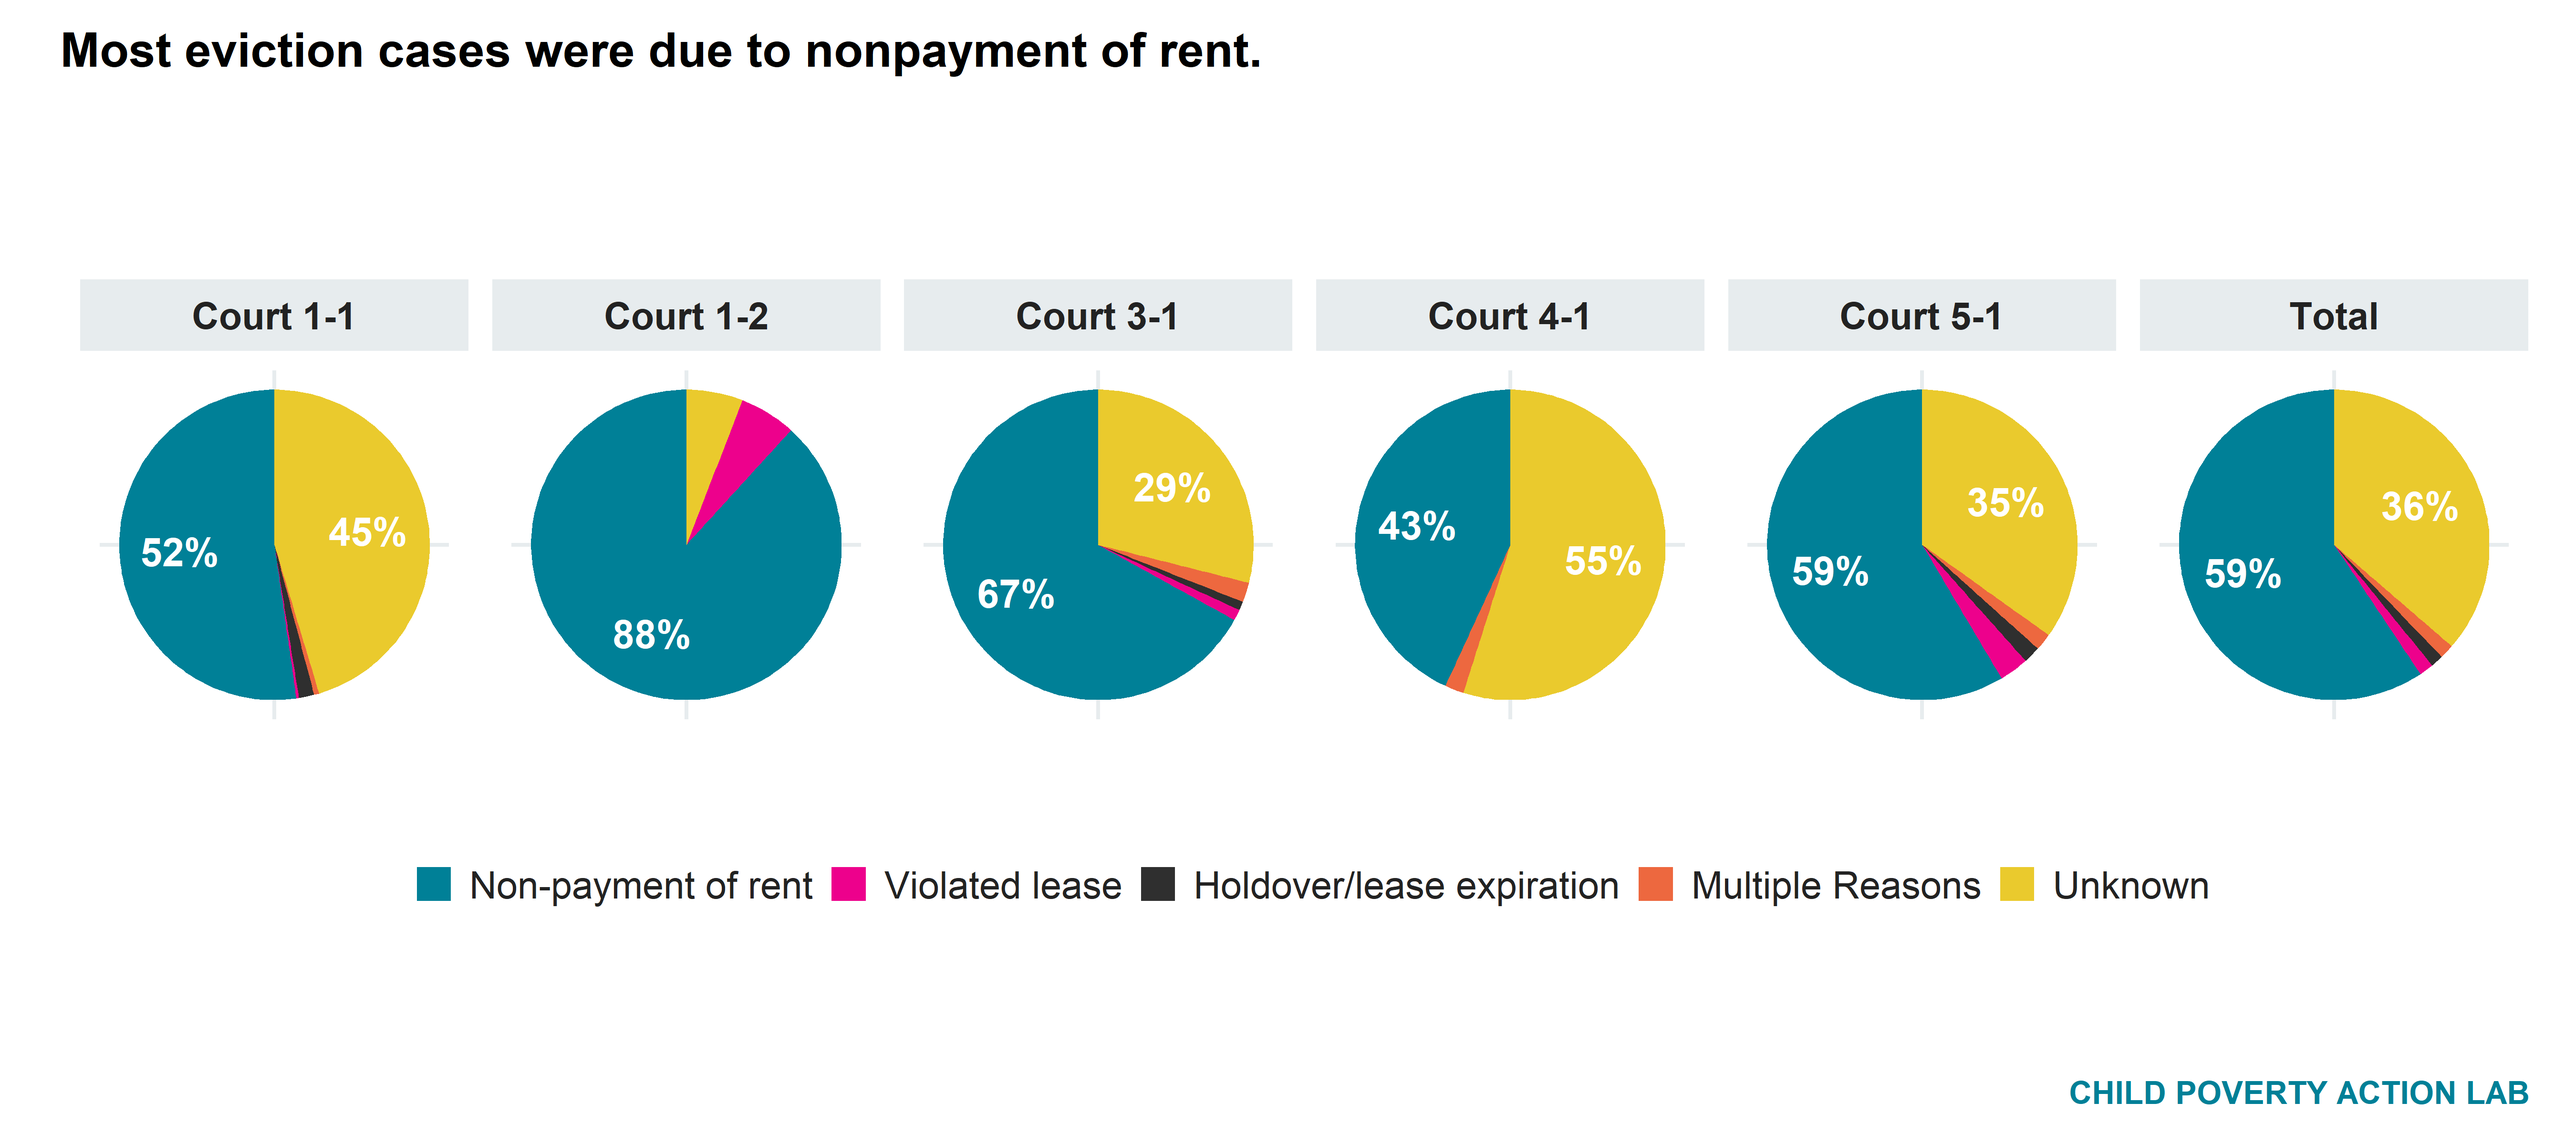
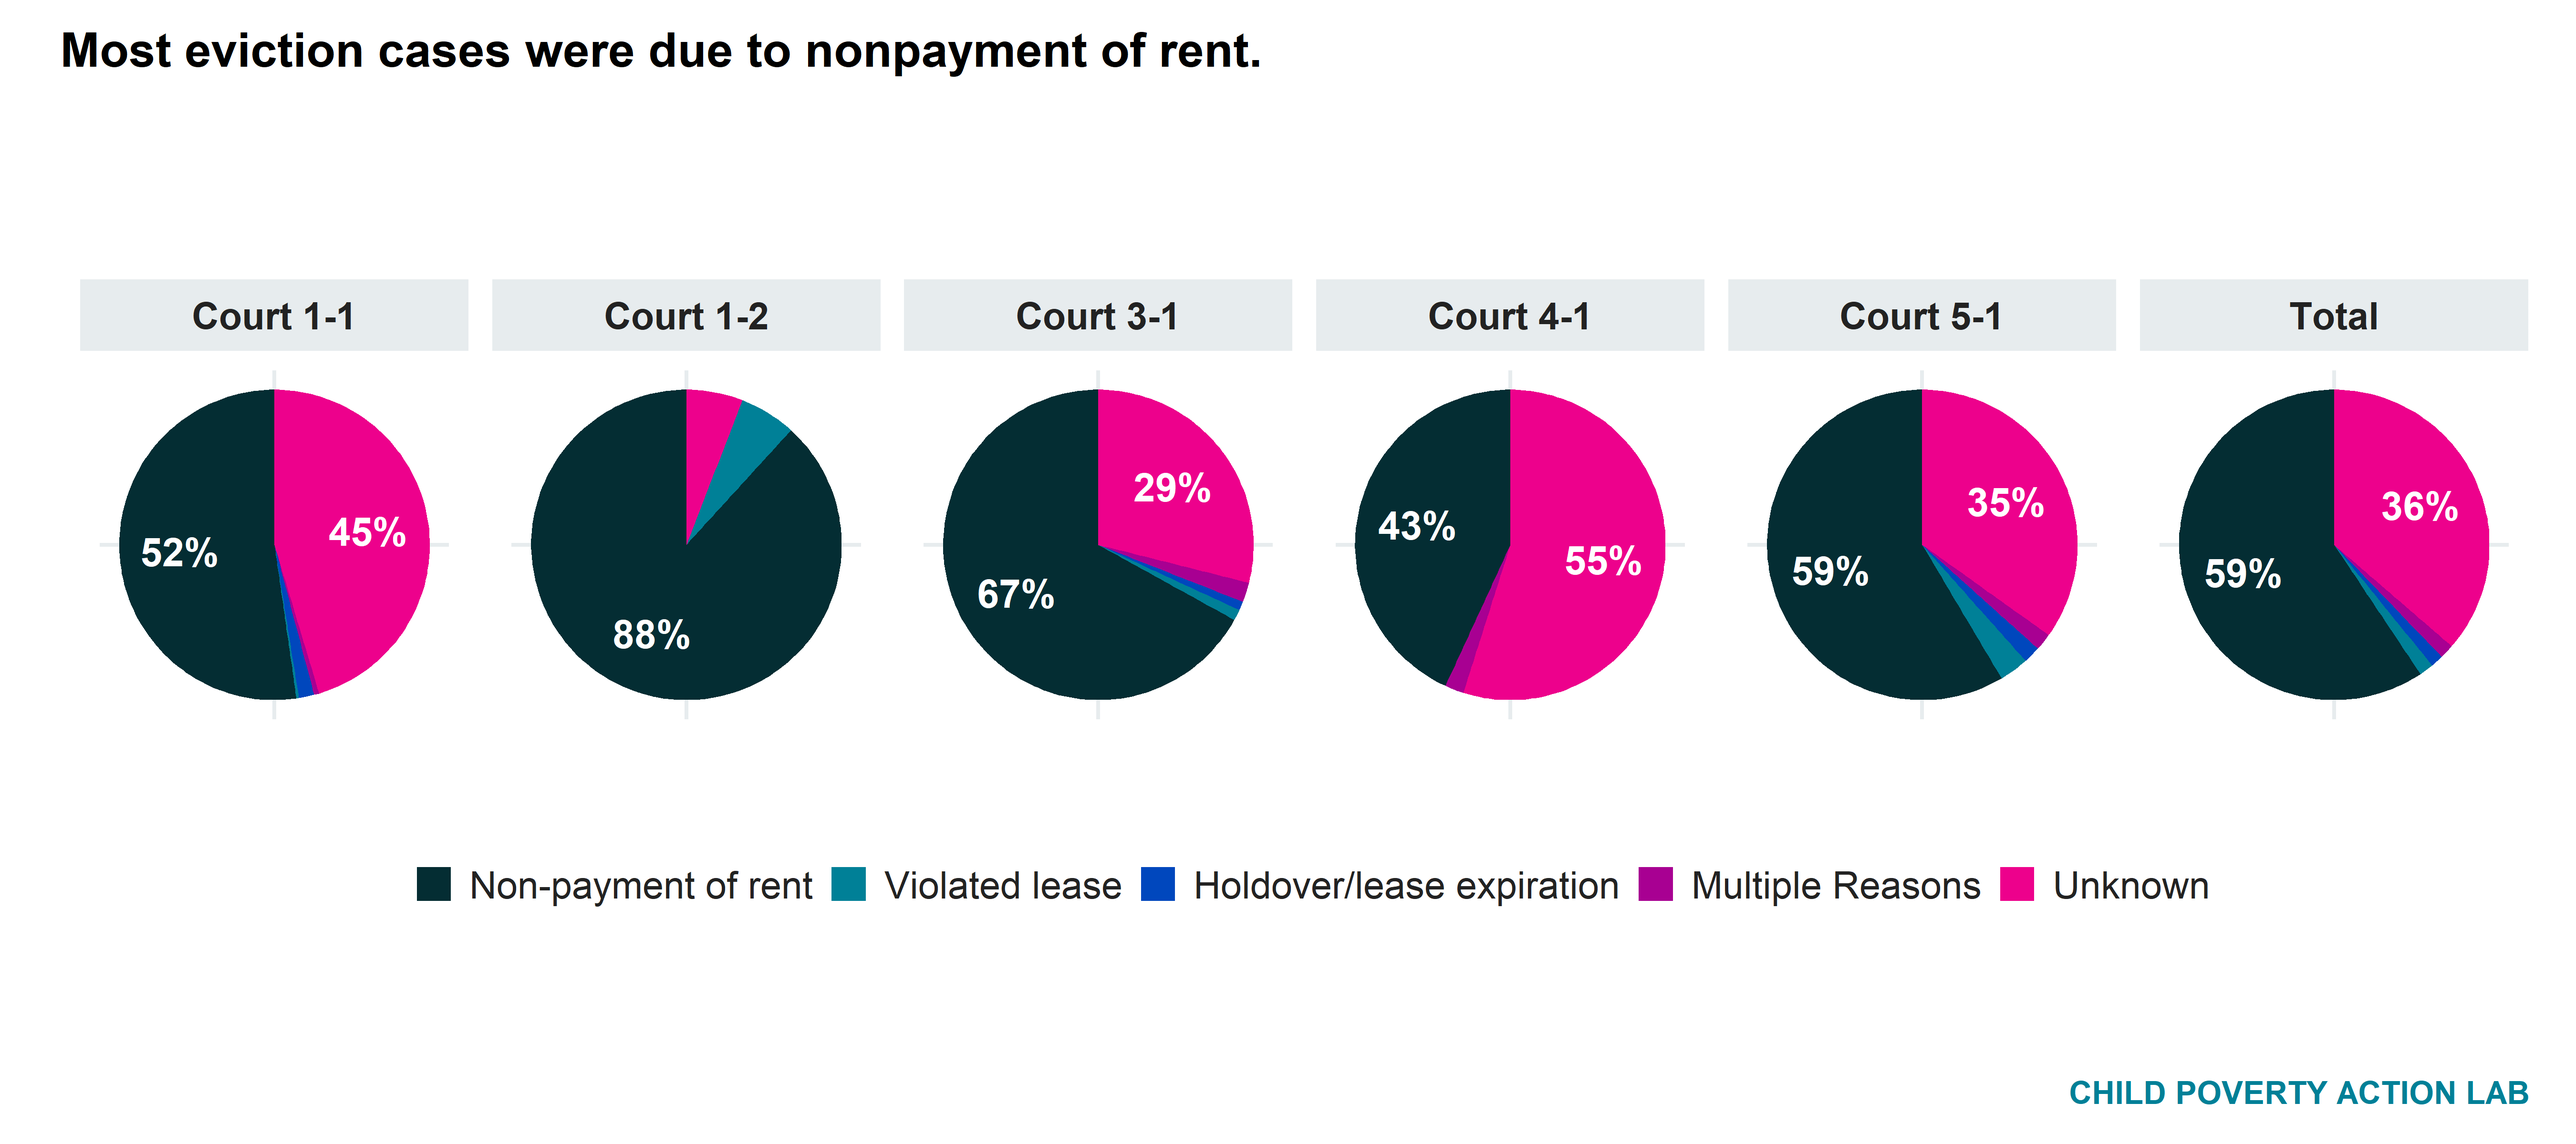
new colors

diff --git a/docs/index.html b/docs/index.html
@@ -203,8 +203,8 @@ ul.task-list li input[type="checkbox"] {
 <div class="cell">
 <div class="cell-output-display">
 
-<div class="datatables html-widget html-fill-item-overflow-hidden html-fill-item" id="htmlwidget-a2959496dcf3be99e5c5" style="width:100%;height:auto;"></div>
-<script type="application/json" data-for="htmlwidget-a2959496dcf3be99e5c5">{"x":{"filter":"none","vertical":false,"data":[["Court 1-1","Court 1-2","Court 3-1","Court 4-1","Court 5-1","Total"],["377","17","439","51","393","1,277"],["29.5%","1.3%","34.4%","4.0%","30.8%","100.0%"],["4,554","1,135","2,828","1,958","2,223","12,698"],["8.3%","1.5%","15.5%","2.6%","17.7%","10.1%"]],"container":"<table class=\"display\">\n  <thead>\n    <tr>\n      <th>JP Court<\/th>\n      <th>Observed Cases<\/th>\n      <th>Share of Total Observed Cases (%)<\/th>\n      <th>Scheduled Hearings*<\/th>\n      <th>Observed Cases by Court (%)<\/th>\n    <\/tr>\n  <\/thead>\n<\/table>","options":{"paging":false,"searching":false,"info":false,"columnDefs":[],"order":[],"autoWidth":false,"orderClasses":false,"rowCallback":"function(row, data, displayNum, displayIndex, dataIndex) {\n}"}},"evals":["options.rowCallback"],"jsHooks":[]}</script>
+<div class="datatables html-widget html-fill-item-overflow-hidden html-fill-item" id="htmlwidget-b8c47afff78dbee23984" style="width:100%;height:auto;"></div>
+<script type="application/json" data-for="htmlwidget-b8c47afff78dbee23984">{"x":{"filter":"none","vertical":false,"data":[["Court 1-1","Court 1-2","Court 3-1","Court 4-1","Court 5-1","Total"],["377","17","439","51","393","1,277"],["29.5%","1.3%","34.4%","4.0%","30.8%","100.0%"],["4,554","1,135","2,828","1,958","2,223","12,698"],["8.3%","1.5%","15.5%","2.6%","17.7%","10.1%"]],"container":"<table class=\"display\">\n  <thead>\n    <tr>\n      <th>JP Court<\/th>\n      <th>Observed Cases<\/th>\n      <th>Share of Total Observed Cases (%)<\/th>\n      <th>Scheduled Hearings*<\/th>\n      <th>Observed Cases by Court (%)<\/th>\n    <\/tr>\n  <\/thead>\n<\/table>","options":{"paging":false,"searching":false,"info":false,"columnDefs":[],"order":[],"autoWidth":false,"orderClasses":false,"rowCallback":"function(row, data, displayNum, displayIndex, dataIndex) {\n}"}},"evals":["options.rowCallback"],"jsHooks":[]}</script>
 </div>
 </div>
 
@@ -260,8 +260,8 @@ ul.task-list li input[type="checkbox"] {
 <div class="cell">
 <div class="cell-output-display">
 
-<div class="datatables html-widget html-fill-item-overflow-hidden html-fill-item" id="htmlwidget-f49896c8aa32b2fe9270" style="width:100%;height:auto;"></div>
-<script type="application/json" data-for="htmlwidget-f49896c8aa32b2fe9270">{"x":{"filter":"none","vertical":false,"data":[["Court 1-1","Court 1-2","Court 3-1","Court 4-1","Court 5-1","Total"],["377","17","439","51","393","1,277"],["3.3 Minutes","3.3 Minutes","3.9 Minutes","4.3 Minutes","3.5 Minutes","3.6 Minutes"]],"container":"<table class=\"display\">\n  <thead>\n    <tr>\n      <th>JP Court<\/th>\n      <th>Cases Observed<\/th>\n      <th>Average Case Length<\/th>\n    <\/tr>\n  <\/thead>\n<\/table>","options":{"paging":false,"searching":false,"info":false,"columnDefs":[],"order":[],"autoWidth":false,"orderClasses":false,"rowCallback":"function(row, data, displayNum, displayIndex, dataIndex) {\n}"}},"evals":["options.rowCallback"],"jsHooks":[]}</script>
+<div class="datatables html-widget html-fill-item-overflow-hidden html-fill-item" id="htmlwidget-bc35badf64324511b724" style="width:100%;height:auto;"></div>
+<script type="application/json" data-for="htmlwidget-bc35badf64324511b724">{"x":{"filter":"none","vertical":false,"data":[["Court 1-1","Court 1-2","Court 3-1","Court 4-1","Court 5-1","Total"],["377","17","439","51","393","1,277"],["3.3 Minutes","3.3 Minutes","3.9 Minutes","4.3 Minutes","3.5 Minutes","3.6 Minutes"]],"container":"<table class=\"display\">\n  <thead>\n    <tr>\n      <th>JP Court<\/th>\n      <th>Cases Observed<\/th>\n      <th>Average Case Length<\/th>\n    <\/tr>\n  <\/thead>\n<\/table>","options":{"paging":false,"searching":false,"info":false,"columnDefs":[],"order":[],"autoWidth":false,"orderClasses":false,"rowCallback":"function(row, data, displayNum, displayIndex, dataIndex) {\n}"}},"evals":["options.rowCallback"],"jsHooks":[]}</script>
 </div>
 </div>
 
